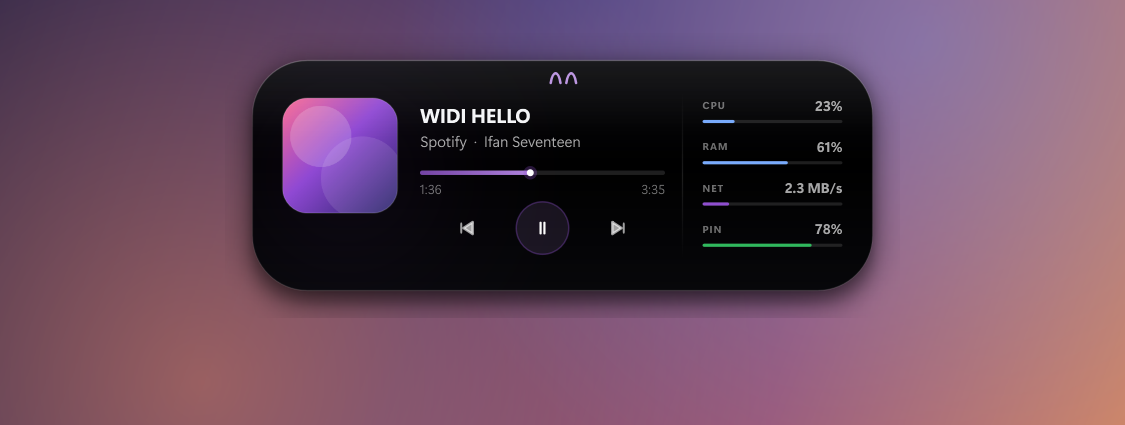
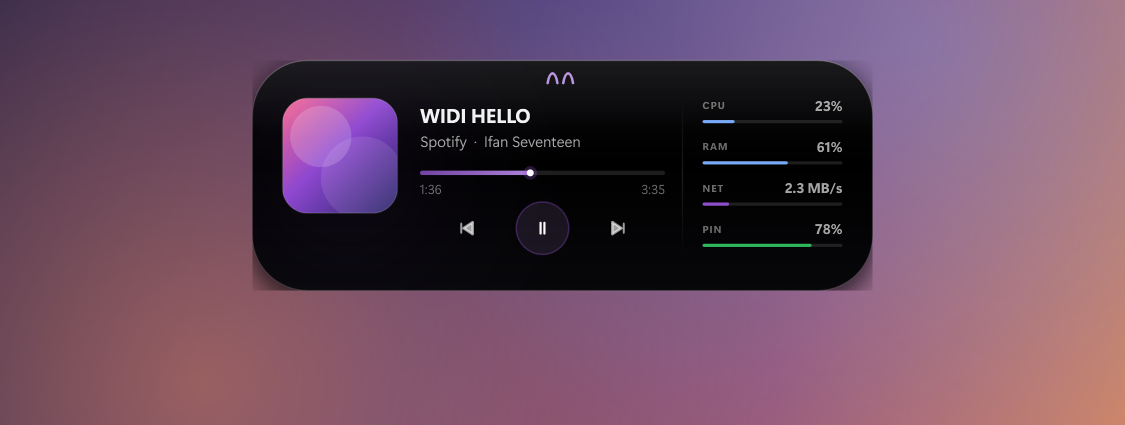
Tối ưu hiệu năng: cache font, cache bóng đổ theo trạng thái, giảm repaint khi hover; sửa start-island.vbs đọc python-path

diff --git a/island/window.py b/island/window.py
@@ -22,7 +22,6 @@ from PySide6.QtGui import (
     QColor,
     QCursor,
     QFont,
-    QFontMetricsF,
     QImage,
     QLinearGradient,
     QPainter,
@@ -43,7 +42,7 @@ from . import icons
 from .debug import dbg
 from .eyes import Eyes
 from .monitor import fmt_rate
-from .theme import C, PAD, alpha, clamp, f, lerp, mix, rgba
+from .theme import C, PAD, alpha, clamp, f, fm, lerp, mix, rgba
 
 IDLE = "idle"
 COMPACT = "compact"
@@ -81,7 +80,7 @@ EXP_STAT_W = 112.0
 
 
 def _elide(text: str, font: QFont, width: float) -> str:
-    return QFontMetricsF(font).elidedText(text, Qt.TextElideMode.ElideRight, width)
+    return fm(font).elidedText(text, Qt.TextElideMode.ElideRight, width)
 
 
 # cờ canh lề + ép một dòng (Qt::TextSingleLine)
@@ -207,8 +206,7 @@ class Island(QWidget):
         self._dragged = False
         self._press_hit = None
 
-        self._sh_key = None
-        self._sh_px = QPixmap()
+        self._sh_cache: dict = {}
         self._chrome_key = None
         self._chrome_px = QPixmap()
 
@@ -449,7 +447,13 @@ class Island(QWidget):
         t = float(value)
         w0, h0, r0 = self._m_from
         w1, h1, r1 = self._m_to
-        self._size = QSizeF(lerp(w0, w1, t), lerp(h0, h1, t))
+        w = lerp(w0, w1, t)
+        h = lerp(h0, h1, t)
+        # OutExpo chạy ~60 fps và có đuôi rất mịn: bỏ qua khung hình đổi < 1px
+        # để khỏi resize cửa sổ + dựng lại nền vô ích.
+        if t < 1.0 and abs(w - self._size.width()) < 1.0 and abs(h - self._size.height()) < 1.0:
+            return
+        self._size = QSizeF(w, h)
         self._radius = lerp(r0, r1, t)
         self._reposition()
         self.update()
@@ -531,11 +535,16 @@ class Island(QWidget):
                 dx = QCursor.pos().x() - self.mapToGlobal(self.rect().center()).x()
             self._eyes.tick(playing, self._hover, dx, time.monotonic() - self._idle_since)
 
-        # 30 fps: rê chuột, chữ chạy, hoặc đang chớp mắt (kể cả khung đóng mắt cuối)
+        # Chỉ vẽ lại khi có hoạt cảnh thật sự. Trước đây hễ rê chuột là vẽ 30 fps
+        # bất kể có gì đổi hay không — đó là nguồn gây giật khi hover / kéo thả.
+        blink_on = self._eyes.blink > 0.01 or prev_blink > 0.01
         if self._hover:
-            self.update()
+            if self._marq or blink_on:
+                self.update()          # 30 fps: chữ chạy hoặc đang chớp mắt
+            elif playing and self._tick_n % 2 == 0:
+                self.update()          # 15 fps: sóng nhạc / thanh tiến trình
             return
-        if not frozen and (self._marq or self._eyes.blink > 0.01 or prev_blink > 0.01):
+        if not frozen and (self._marq or blink_on):
             self.update()
             return
         # 15 fps: sóng nhạc
@@ -574,7 +583,12 @@ class Island(QWidget):
         cp.setRenderHints(
             QPainter.RenderHint.Antialiasing | QPainter.RenderHint.SmoothPixmapTransform
         )
-        cp.drawPixmap(0, 0, self._shadow(pill.width(), pill.height(), self._radius))
+        sh_px, sw, sh = self._shadow_for(pill.width(), pill.height())
+        cp.drawPixmap(
+            QRectF(pill.left(), pill.top(), pill.width(), pill.height()),
+            sh_px,
+            QRectF(PAD, PAD, sw, sh),
+        )
 
         path = QPainterPath()
         path.addRoundedRect(pill, self._radius, self._radius)
@@ -655,10 +669,8 @@ class Island(QWidget):
             p.setBrush(C.red)
             p.drawEllipse(QPointF(cx, cy), 3.0, 3.0)
 
-    def _shadow(self, w: float, h: float, r: float) -> QPixmap:
-        key = (round(w / 4), round(h / 4), round(r / 4))
-        if key == self._sh_key:
-            return self._sh_px
+    def _render_shadow(self, w: float, h: float, r: float) -> QPixmap:
+        """Vẽ bóng đổ blur cho một kích thước (gọi một lần cho mỗi trạng thái)."""
         pw, ph = round(w + 2 * PAD), round(h + 2 * PAD)
         src = QPixmap(pw, ph)
         src.fill(Qt.GlobalColor.transparent)
@@ -684,10 +696,27 @@ class Island(QWidget):
         op = QPainter(out)
         scene.render(op, QRectF(0, 0, pw, ph), QRectF(0, 0, pw, ph))
         op.end()
-
-        self._sh_key = key
-        self._sh_px = out
         return out
+
+    def _shadow_for(self, w: float, h: float):
+        """(pixmap, sw, sh) — mẫu bóng gần nhất trong 4 kích thước trạng thái.
+
+        Mỗi kích thước chỉ blur một lần rồi cache, nên lúc nghỉ bóng luôn đúng nét;
+        lúc bung/thu chỉ co giãn nhẹ từ mẫu gần nhất (không thấy khác biệt khi
+        đang chuyển động).
+        """
+        best = None
+        for _st, (sw, sh, sr) in SIZES.items():
+            d = abs(sw - w) + abs(sh - h)
+            if best is None or d < best[0]:
+                best = (d, sw, sh, sr)
+        _d, sw, sh, sr = best
+        key = (sw, sh)
+        px = self._sh_cache.get(key)
+        if px is None:
+            px = self._render_shadow(sw, sh, sr)
+            self._sh_cache[key] = px
+        return px, sw, sh
 
     # ------------------------------------------------------------- nội dung
     def _eye_color(self) -> QColor:
@@ -698,8 +727,8 @@ class Island(QWidget):
         date = _vn_short()
         clock_font = f(13.5, QFont.Weight.DemiBold, 0.2)
         date_font = f(8.5, QFont.Weight.Medium, 0.35)
-        fm_c = QFontMetricsF(clock_font)
-        fm_d = QFontMetricsF(date_font)
+        fm_c = fm(clock_font)
+        fm_d = fm(date_font)
         block_w = max(fm_c.horizontalAdvance("00:00"), fm_d.horizontalAdvance(date))
         eye_w, gap = 20.0, 11.0
         total = eye_w + gap + block_w
@@ -824,13 +853,13 @@ class Island(QWidget):
         speed: float = 24.0,
         gap: float = 34.0,
     ):
-        fm = QFontMetricsF(font)
+        m = fm(font)
         p.setFont(font)
         p.setPen(color)
         if not text:
             self._marq = False
             return
-        if fm.horizontalAdvance(text) <= rect.width():
+        if m.horizontalAdvance(text) <= rect.width():
             self._marq = False
             p.drawText(rect, LC, text)
             return
@@ -840,10 +869,10 @@ class Island(QWidget):
         if text != self._marq_key:
             self._marq_key = text
             self._marq_t0 = now
-        span = fm.horizontalAdvance(text) + gap
+        span = m.horizontalAdvance(text) + gap
         elapsed = max(0.0, now - self._marq_t0 - 1.4)
         off = (elapsed * speed) % span
-        base = rect.top() + (rect.height() + fm.ascent() - fm.descent()) / 2.0
+        base = rect.top() + (rect.height() + m.ascent() - m.descent()) / 2.0
 
         p.save()
         p.setClipRect(rect)

diff --git a/island/theme.py b/island/theme.py
@@ -2,7 +2,7 @@
 
 from __future__ import annotations
 
-from PySide6.QtGui import QColor, QFont, QFontDatabase
+from PySide6.QtGui import QColor, QFont, QFontDatabase, QFontMetricsF
 
 # Vùng đệm quanh viên đảo để vẽ bóng đổ
 PAD = 22
@@ -60,6 +60,8 @@ class C:
 
 
 _FAMILY: str | None = None
+_FONT_CACHE: dict = {}
+_FM_CACHE: dict = {}
 
 
 def family() -> str:
@@ -76,13 +78,30 @@ def family() -> str:
 
 
 def f(size: float, weight: QFont.Weight = QFont.Weight.Normal, spacing: float = 0.0) -> QFont:
+    # Cache theo tham số: tạo QFont mỗi khung hình rất tốn (Qt phải phân giải font).
+    key = (round(size * 4), int(weight), round(spacing * 100))
+    hit = _FONT_CACHE.get(key)
+    if hit is not None:
+        return hit
     font = QFont(family())
     font.setPixelSize(max(1, round(size)))
     font.setWeight(weight)
     font.setHintingPreference(QFont.HintingPreference.PreferNoHinting)
     if spacing:
         font.setLetterSpacing(QFont.SpacingType.AbsoluteSpacing, spacing)
+    _FONT_CACHE[key] = font
     return font
+
+
+def fm(font: QFont) -> QFontMetricsF:
+    """QFontMetricsF dùng chung theo font — tránh dựng lại mỗi lần đo chữ."""
+    key = (font.family(), font.pixelSize(), int(font.weight()), round(font.letterSpacing(), 2))
+    hit = _FM_CACHE.get(key)
+    if hit is not None:
+        return hit
+    metrics = QFontMetricsF(font)
+    _FM_CACHE[key] = metrics
+    return metrics
 
 
 def clamp(v: float, lo: float, hi: float) -> float:
